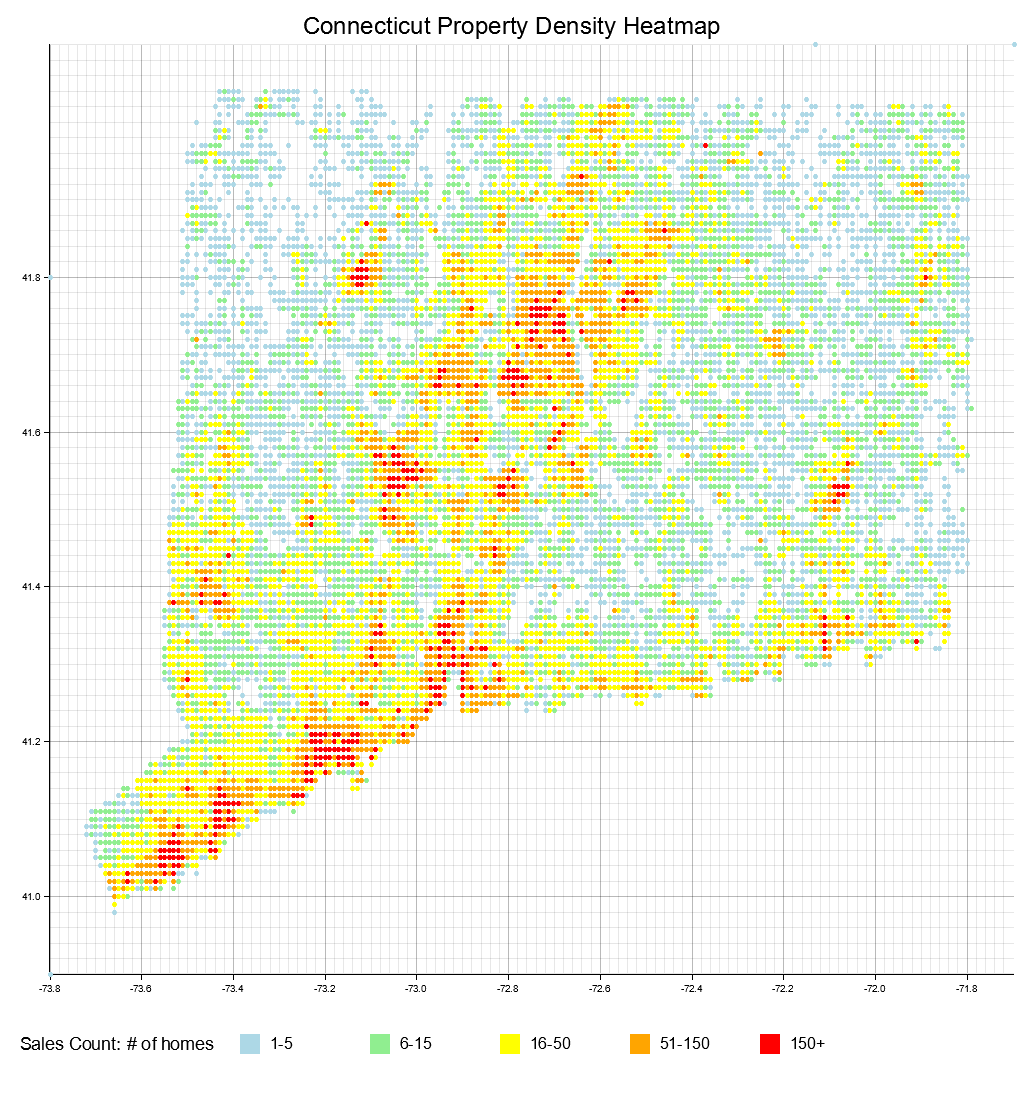
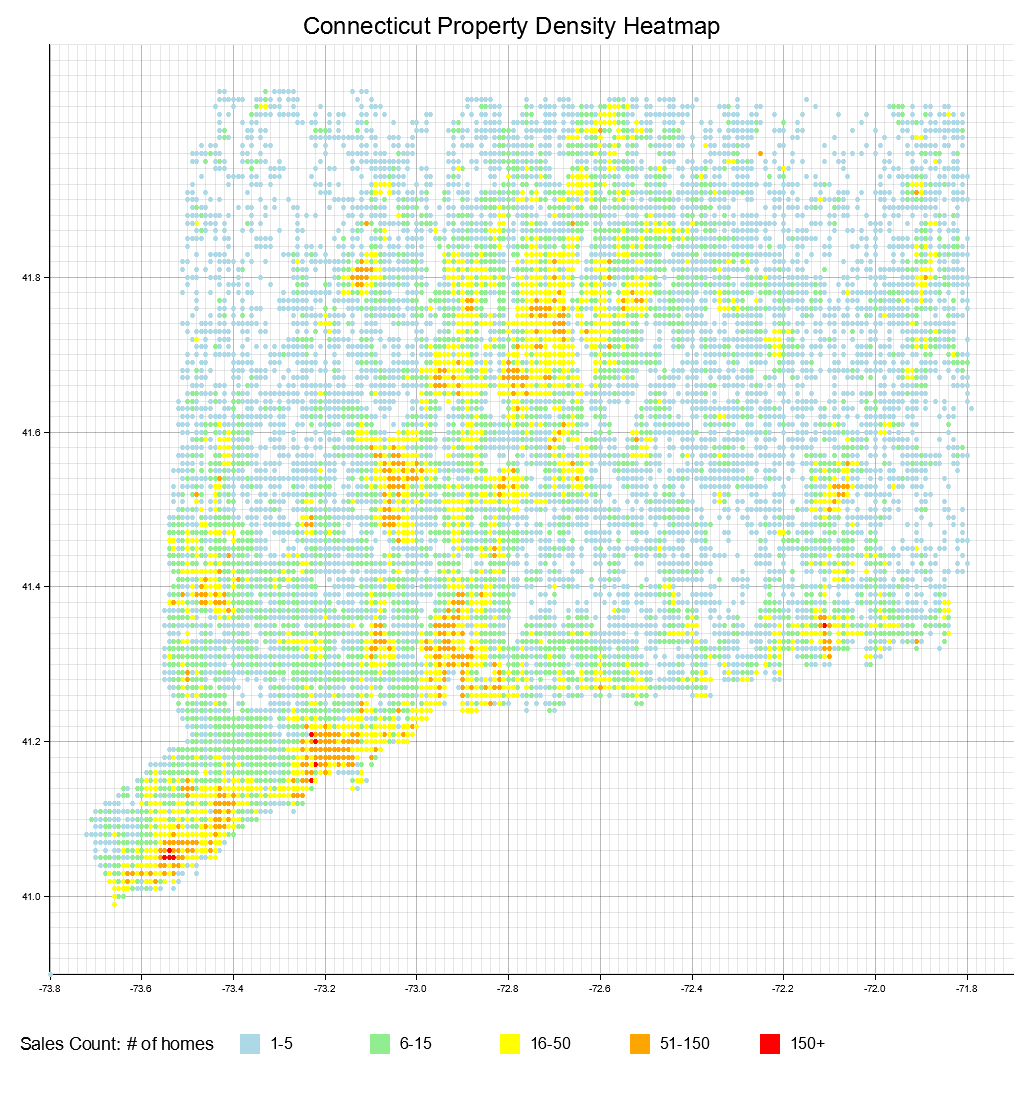
tests added, writeup/readme added, program offically done... I think

Changed region(s): [[0.0938, 0.0927, 0.9688, 0.8345]]

diff --git a/src/property.rs b/src/property.rs
@@ -8,7 +8,7 @@
 ///  - Property classification details
 /// Used throughout the program to carry data from CSV into analyses, graphs, and visualizations.
 /// 
-#[derive(Debug, Clone, PartialEq)]
+#[derive(Debug, Clone, PartialEq, Default)]
 pub struct Property {
     // A unique string ID representing the property (Serial Number column)
     pub serial_number: String,
@@ -44,4 +44,23 @@ pub struct Property {
     // I created a seperate dataset that contained only entries with lat/lon coordinates which I will use for the purposes of this project
     // The code for the data spliting program is separate and not included in this project
     pub location: Option<(f64, f64)>,
+}
+
+#[test]
+fn test_property_creation() {
+    let property = Property {
+        serial_number: "123".to_string(),
+        year: 2023,
+        date_recorded: "01/01/2023".to_string(),
+        town: "TestTown".to_string(),
+        address: "123 Test St".to_string(),
+        assessed_value: 100000.0,
+        sale_amount: 150000.0,
+        sales_ratio: 1.5,
+        property_type: "Residential".to_string(),
+        residential_type: Some("Single Family".to_string()),
+        location: Some((-72.0, 41.5)),
+    };
+    assert_eq!(property.town, "TestTown");
+    assert_eq!(property.sales_ratio, 1.5);
 }

diff --git a/src/parser.rs b/src/parser.rs
@@ -55,3 +55,33 @@ pub fn parse_csv(filename: &str) -> Vec<Property> {
         })
         .collect()
 }
+
+
+
+
+#[test]
+fn test_parse_csv_with_mock_data() {
+    use std::fs::{write, remove_file};
+    use std::path::Path;
+
+    // Header + one row of real-world-style data
+    let content = "Serial Number,List Year,Date Recorded,Town,Address,Assessed Value,Sale Amount,Sales Ratio,Property Type,Residential Type,Non Use Code,Assessor Remarks,OPM remarks,Location,Longitude,Latitude\n\
+220008,2022,01/30/2023,Andover,618 ROUTE 6,139020.00,232000.00,0.5992,Residential,Single Family,,,,POINT (-72.343628962 41.728431984),-72.343628962,41.728431984";
+
+    let test_file = "test.csv";
+    write(test_file, content).expect("Failed to write test CSV");
+
+    let props = crate::parser::parse_csv(test_file);
+    assert_eq!(props.len(), 1, "Expected one property, got: {:?}", props);
+
+    let p = &props[0];
+    assert_eq!(p.serial_number, "220008");
+    assert_eq!(p.town, "Andover");
+    assert_eq!(p.sale_amount, 232000.0);
+    assert_eq!(p.sales_ratio, 0.5992);
+    assert_eq!(p.location, Some((-72.343628962, 41.728431984)));
+
+    if Path::new(test_file).exists() {
+        remove_file(test_file).unwrap();
+    }
+}

diff --git a/src/heatmap.rs b/src/heatmap.rs
@@ -47,3 +47,41 @@ pub fn generate_heatmap(properties: &[Property], output_path: &str) {
 
     println!("Heatmap CSV saved to {}", output_path);
 }
+
+#[cfg(test)]
+mod tests {
+    use super::*;
+    use crate::property::Property;
+    use std::fs;
+
+    #[test]
+    fn test_generate_heatmap_content() {
+        let props = vec![
+            Property {
+                sales_ratio: 0.5,
+                location: Some((-72.55, 41.23)),
+                ..Default::default()
+            },
+            Property {
+                sales_ratio: 1.5,
+                location: Some((-72.55, 41.23)),
+                ..Default::default()
+            },
+        ];
+
+        let output = "test_heatmap.csv";
+        generate_heatmap(&props, output);
+
+        let file_contents = fs::read_to_string(output).unwrap();
+
+        // Make sure the header is present
+        assert!(file_contents.contains("lon,lat,avg_ratio"));
+
+        // Make sure the average is calculated correctly: (0.5 + 1.5) / 2 = 1.0
+        assert!(file_contents.contains("41.23"));
+        assert!(file_contents.contains("1.000"));
+
+       fs::remove_file(output).unwrap();
+    }
+}
+    

diff --git a/src/insights.rs b/src/insights.rs
@@ -156,3 +156,30 @@ pub fn find_flipper_properties(properties: &[Property]) {
         );
     }
 }
+
+#[cfg(test)]
+mod tests {
+    use super::*;
+    use crate::property::Property;
+
+    #[test]
+    fn test_summary_statistics_runs() {
+        let properties = vec![
+            Property {
+                sale_amount: 200_000.0,
+                ..Default::default()
+            },
+            Property {
+                sale_amount: 300_000.0,
+                ..Default::default()
+            },
+            Property {
+                sale_amount: 500_000.0,
+                ..Default::default()
+            },
+        ];
+
+        // checking that the function runs without crashing
+        print_summary_statistics(&properties);
+    }
+}

diff --git a/src/main.rs b/src/main.rs
@@ -31,7 +31,7 @@ fn main() {
     let start = Instant::now(); // Measure program runtime
 
     // Load properties from CSV file
-    let properties = parse_csv("cords_split_only.csv"); // Put whatever csv file you want here
+    let properties = parse_csv("shrunk_split_data.csv"); // Put whatever csv file you want here
     println!("Loaded {} properties.", properties.len());
 
     // Print high-level summary stats (mean, median, std dev)

diff --git a/README.md b/README.md
@@ -1,0 +1,194 @@
+# 210 Final Project Writeup: Real Estate Insights in the state of Conneticut 
+
+## A. Project Overview
+
+### Goal
+This project aims to help users better understand trends in the a given real estate market by visualizing property sale patterns and identifying high-opportunity areas. 
+
+Specifically, the program:
+- Generates a geographic heatmap of Connecticut home sales
+- Identifies towns with increasing home values  
+- Finds undervalued properties that resemble high-end homes in the same area *(flipper properties)*
+
+### Dataset
+The data was gathered from [catalog.data.gov](https://catalog.data.gov/dataset/real-estate-sales-2001-2018) 
+
+The original dataset contains over **1 million real estate transaction records** from Connecticut, including sales prices, assessed values, property types, and geographic coordinates. It was preprocessed to retain only records with valid coordinates.
+
+*The original CSV is too large to host on GitHub a shunken file is provided and used: [shrunk_split_data.csv](shrunk_split_data.csv)*
+
+---
+## B. Data Processing
+
+### How data is loaded into Rust 
+The dataset is read using the `csv` crate with headers enabled. The `parse_csv()` function handles reading each row and converting it into a `Property` struct.
+
+I used [`rayon`](https://docs.rs/rayon/latest/rayon/index.html) for parallel processing via `.par_bridge()` to speed up parsing on my original very large dataset.
+
+### Cleaning/Preprocessing
+
+The original dataset had quite a bit of hit or miss data. I created and used a seperate rust program to clean, and split only the data that contained the lat/lon cordinates. Within the program only the following cleaning is done.:
+
+- Only properties with valid coordinates and positive sale amounts are processed (invalid data is skipped)
+- Location coordinates are binned into 0.01-degree grid cells for visualization
+
+---
+## C. Code Structure
+
+### Modules & Purpose
+- `main.rs`: Organizes execution
+- `parser.rs`: Loads and parses the CSV
+- `property.rs`: Defines the `Property` struct
+- `heatmap.rs`: Generates a CSV of average sales ratios per grid cell
+- `heatmap_draw.rs`: Generates a PNG heatmap visualization using [`plotters`](https://docs.rs/plotters/latest/plotters/)
+- `insights.rs`: Prints statistics, identifies high-growth towns and flippable properties
+
+### Main Struct
+**`Property`**
+
+ Holds all relevant attributes needed for analysis, visualization, and filtering, every row of the CSV file is parsed into one Property instance, and nearly all logic operates over a `Vec<Property>`. It represents one row of the CSV and includes all the fields within the CSV.
+
+- Inputs: Each field is extracted from a row of the CSV file using `record.get()` and it is parsed into the appropriate Rust type
+- Outputs: The struct itself is passed between modules to do nearly everything in the program
+
+### Key Functions
+- `pub fn parse_csv(filename: &str) -> Vec<Property>`: Loads all valid properties from a file. Uses `rayon::par_bridge()`.
+- `generate_heatmap()` (in `heatmap.rs`):
+    - Bins coordinates and averages sales ratios per cell.
+    - Writes to a CSV with `lon,lat,avg_ratio`.
+- `draw_heatmap()` (in `heatmap_draw.rs`):
+    - Visualizes grid-based property counts using Plotters.
+- `find_rising_towns()`:
+    - Calculates percent increase in median sale price per town.
+- `find_flipper_properties()`:
+    - Finds undervalued homes matching the characteristics of high-end homes in the same town/type.
+
+---
+
+## D. Tests
+
+ *Vital program functions have tests*
+
+### `cargo test` output:
+```
+running 4 tests
+test property::test_property_creation ... ok
+test insights::tests::test_summary_statistics_runs ... ok
+test heatmap::tests::test_generate_heatmap_content ... ok
+test parser::test_parse_csv_with_mock_data ... ok
+
+test result: ok. 4 passed; 0 failed; 0 ignored; 0 measured; 0 filtered out; finished in 0.01s
+```
+
+### Breakdown
+- `test_property_creation`: Validates basic struct creation, vital for program functionality 
+- `test_summary_statistics_runs`: Confirms that summary stats don’t crash on input and make successful output/run correct calculations using test data
+- `test_generate_heatmap_content`: Checks that a file is created with correct values and correct calculations using test data, ensures calculations are correct and that a readable CSV is being properly generated 
+- `test_parse_csv_with_mock_data`: Ensures a mock CSV loads correctly, important for the program to function properly 
+
+---
+## E. Results
+
+- Program outputs:
+    - Text printed to terminal
+    - [heatmap.csv ](ct_heatmap.csv)
+
+ct_heatmap.png: 
+
+![.png file ](ct_heatmap.png)
+
+Terminal output:
+```
+Loaded 112387 properties.
+  Summary Statistics:
+  Mean Sale Amount: $549076.54
+  Median Sale Amount: $309900.00
+  Mode Sale Amount: $250000.00
+  Std Dev: $2537184.85
+Heatmap CSV saved to ct_heatmap.csv
+Heatmap image saved to ct_heatmap.png
+Top 5 Towns Predicted to Rise (Median Sale Growth):
+  Union: 138.5% median price increase
+  Salem: 86.1% median price increase
+  Woodbridge: 73.0% median price increase
+  Pomfret: 51.5% median price increase
+  Willington: 43.9% median price increase
+Flipper Property Candidates (Low Price, High-End Traits):
+  15 CENTER ST in New London: $285000 (Assessed $117390, Ratio 0.41)
+  261 GARDNER AVE in New London: $268000 (Assessed $116060, Ratio 0.43)
+  E55 RIVERVIEW CROSSING in Branford: $177000 (Assessed $74900, Ratio 0.42)
+  1342 NORTH RD in Groton: $217000 (Assessed $107940, Ratio 0.50)
+  98 ASPETUCK VILLAGE in New Milford: $82000 (Assessed $57960, Ratio 0.71)
+Program completed in 1.23s
+```
+
+### Interpretation in project context
+- The summary statistics show a highly skewed distribution of sale amounts, with a few extremely high-value properties raising the average. The median and mode provide a more realistic view of typical transactions, centered around $250,000-$310,000.
+
+- The heatmap visualization reflects expected patterns, with higher transaction density around major urban areas like New Haven, Stamford, and Hartford. This suggests consistent activity in population centers, which aligns with known market behavior.
+
+- The list of towns with rising median prices points to areas where prices may be trending upward. These aren't necessarily the most expensive towns, but ones with significant percentage growth. Possibily due to increased demand in those markets.
+
+- The flippable property section highlights homes that are significantly undervalued compared to others of the same property type in the same town. These could represent real opportunities for investors, or at least serve as starting points for further analysis.
+
+---
+
+## F. Usage Instructions
+
+### Run Locally:
+```bash
+cargo build --release
+cargo run --release
+```
+
+### Prerequisites:
+- Rust & IDE of choice
+- File named [shrunk_split_data.csv](shrunk_split_data.csv) in project root (CSV can be changed in main.rs)
+- [Cargo.toml](Cargo.toml) with relevent dependencies 
+
+### Runtime:
+- ~2 seconds *with included file `shrunk_split_data.csv`*
+- ~30 seconds *with ~1M entries*
+- Output files are saved in the same directory
+- 2 Files are generated, ct_heatmap.png & ct_heatmap.csv
+    - *They will be overwritten each time the progam is ran*
+
+---
+
+## G. AI-Assistance Disclosure & Other Citations
+
+Chatgpt was used for:
+- Debugging 
+- Revising test functions
+- Simplifying logic and aiding in understanding documentation
+- Help learn git and uploading project to github 
+
+
+### External Documentation Referenced
+- [`rayon::par_bridge`](https://docs.rs/rayon/latest/rayon/iter/trait.ParallelBridge.html)
+- [`plotters` crate](https://docs.rs/plotters/0.3.7/plotters/index.html)
+- [`csv` crate](https://docs.rs/csv/latest/csv/index.html)
+- Various Rust documentation
+
+---
+---
+
+```css         
+                    ________________________________________
+                   |                                        |
+                   |   Thank you for reviewing my project!  |
+                   |    And for a fun semester in 210       |
+      ._     _.   -|           #I_SURVIVED_DS210            |
+      |\\___//|    |________________________________________|
+      |=O   O=|    
+      \=._Y_.=/    
+       )     (      
+      /       \  ((
+      |       |   ))
+     /| |   | |\_//
+     \| |._.| |/-`
+      '"'   '"'
+```
+
+
+
